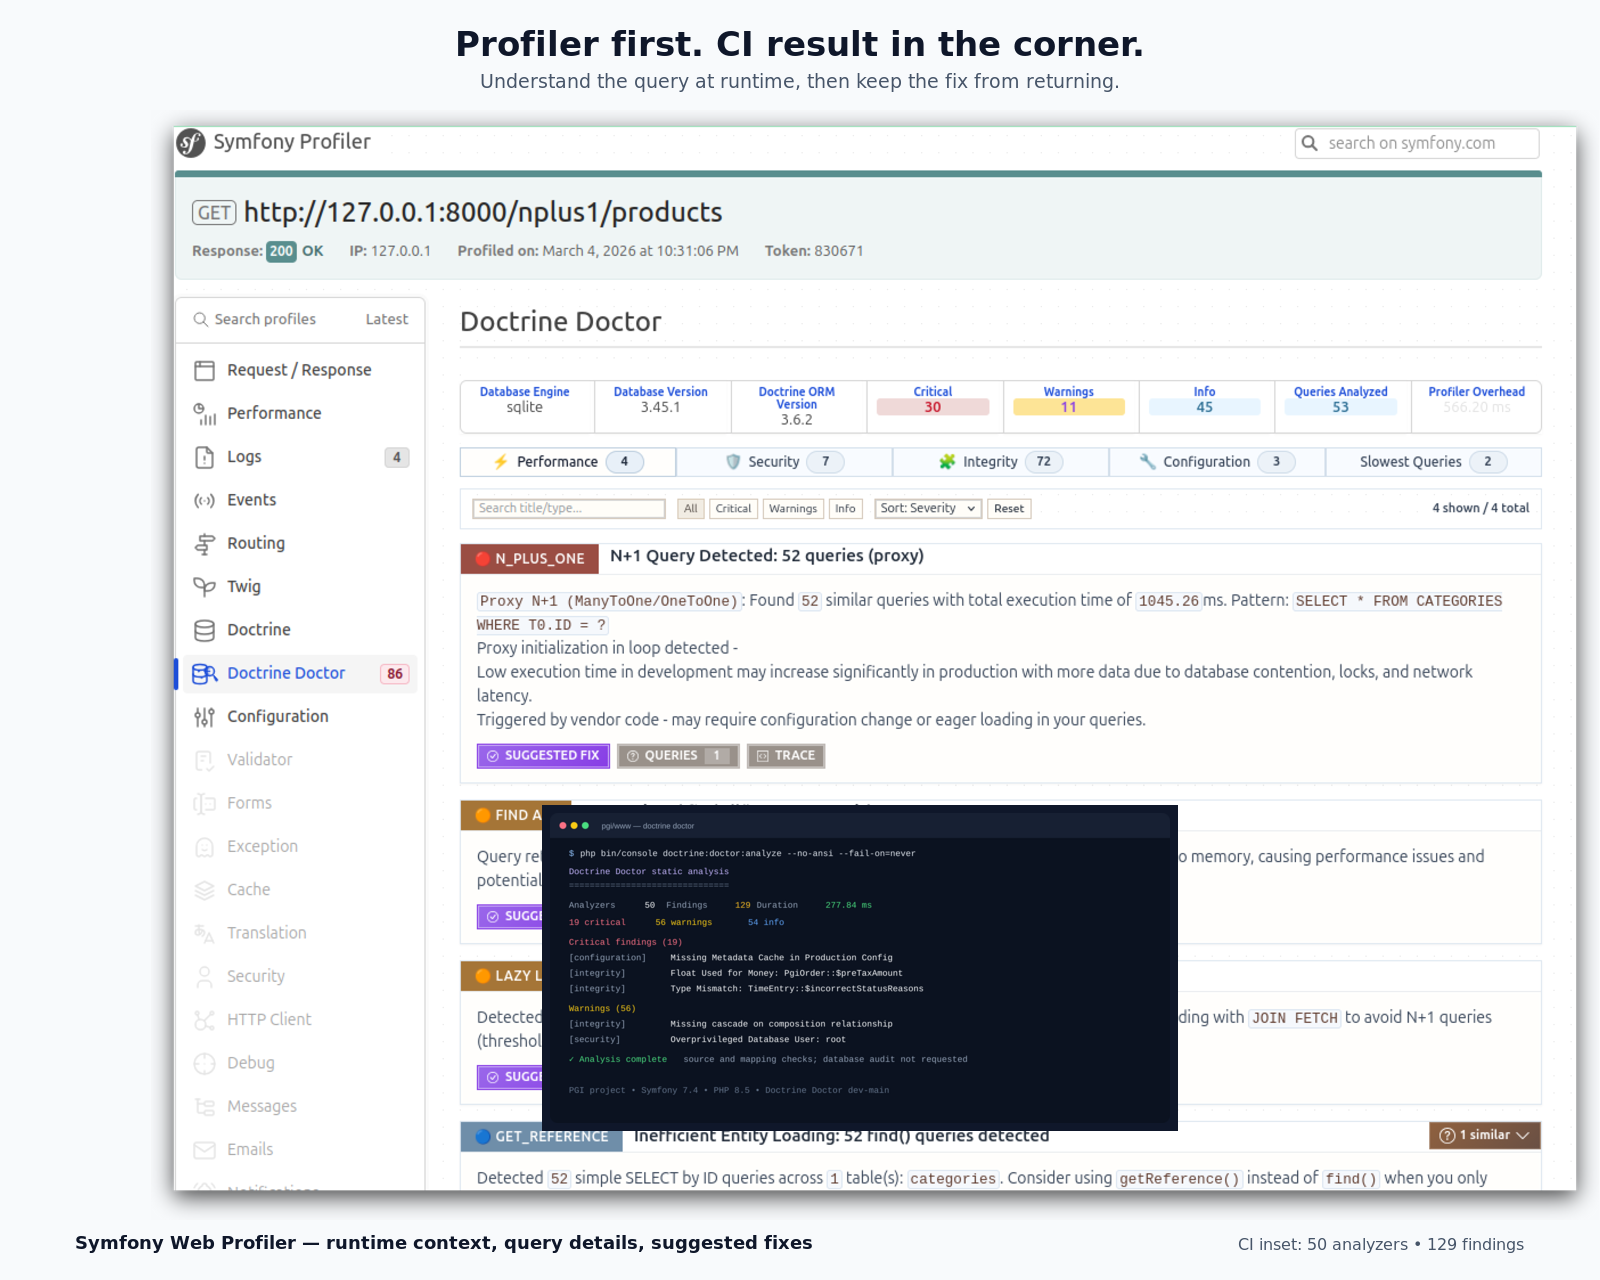
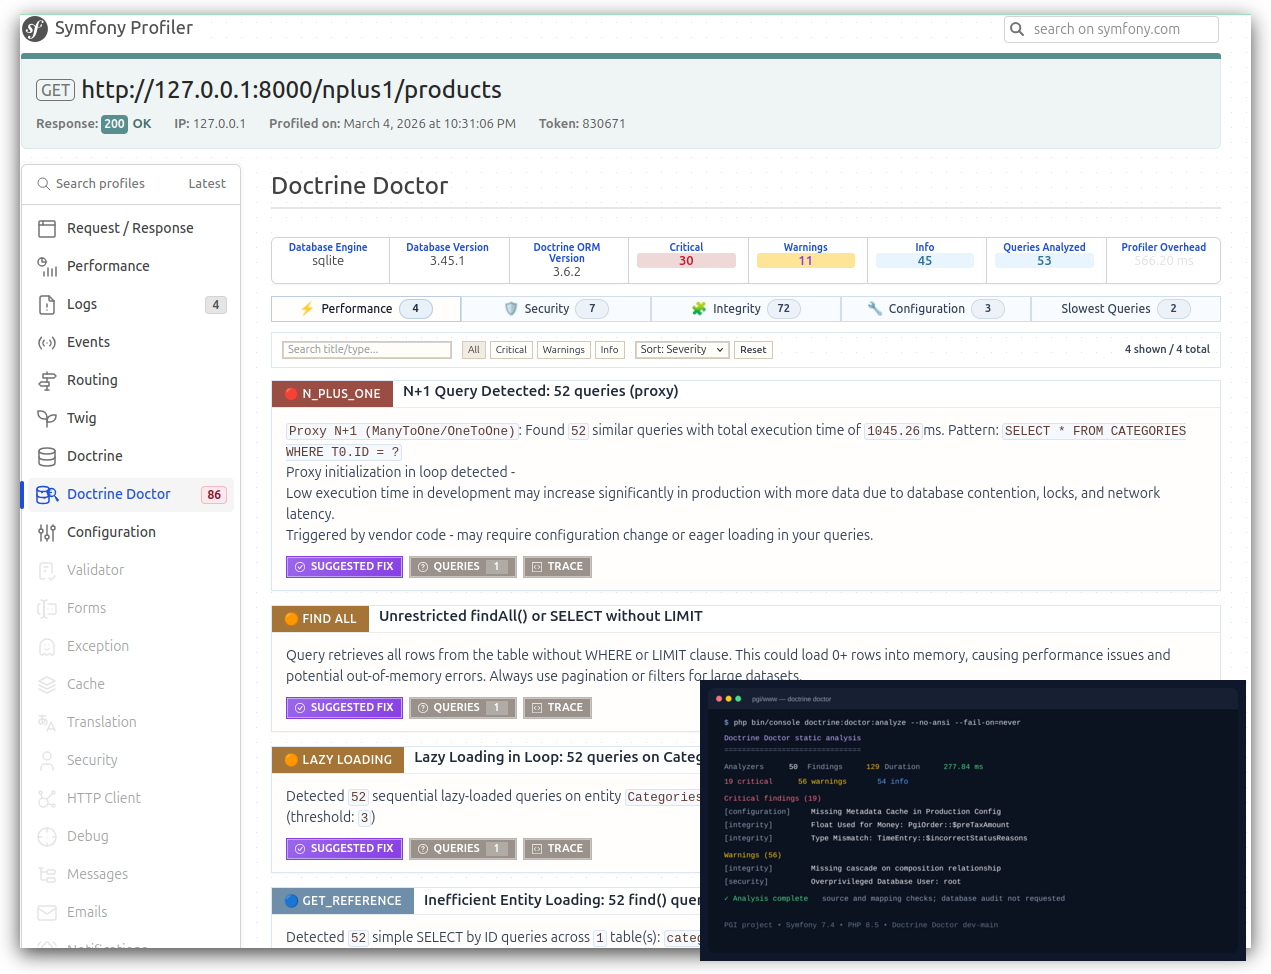
docs: make profiler preview full width

diff --git a/README.md b/README.md
@@ -30,7 +30,7 @@ Doctrine Doctor adds Doctrine-focused feedback to the two places where it is mos
 <p align="center">
   <img src="docs/images/pgi-feedback.png" alt="Symfony Web Profiler in focus with a real PGI Doctrine Doctor CLI result inset showing 50 analyzers and 129 findings" width="100%">
 </p>
-<p align="center"><em>Profiler first for context; the CI result stays visible as a compact proof.</em></p>
+<p align="center"><em>Runtime context with the real CI result kept in view.</em></p>
 
 <p align="center">
   <a href="#add-it-to-ci">Catch issues in CI</a> ·
